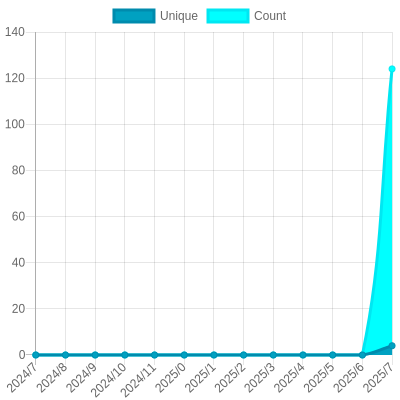
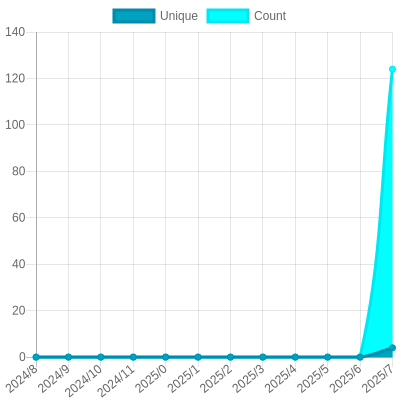
Update views

diff --git a/README.md b/README.md
@@ -26,18 +26,18 @@ The project created and maintained by [gayanvoice](https://github.com/gayanvoice
 			</a>
 		</td>
 		<td>
-			2024/8/29 1:19 AM UTC
+			2024/8/30 12:00 AM UTC
 		</td>
 		<td>
-			3
+			4
 		</td>
 		<td>
-			<img alt="Response time graph" src="https://github.com/sathya26d94/gitHub-profile-views/raw/master/graph/844962475/small/year.png" height="20"> 123
+			<img alt="Response time graph" src="https://github.com/sathya26d94/gitHub-profile-views/raw/master/graph/844962475/small/year.png" height="20"> 124
 		</td>
 	</tr>
 </table>
 
-<small><i>Last updated on 2024/8/31 6:21 PM UTC</i></small>
+<small><i>Last updated on 2024/9/1 1:38 AM UTC</i></small>
 
 ## ✂Copy and 📋 Paste
 ### Total Views Badge

diff --git a/readme/844962475/year.md b/readme/844962475/year.md
@@ -150,21 +150,10 @@
 			<code>0</code>
 		</td>
 	</tr>
-	<tr>
-		<td>
-			<code>2023/8/1</code>
-		</td>
-		<td>
-			<code>0</code>
-		</td>
-		<td>
-			<code>0</code>
-		</td>
-	</tr>
 </table>
 
 </details>
-<small><i>Last updated on 2024/8/31 6:21 PM UTC</i></small>
+<small><i>Last updated on 2024/9/1 1:38 AM UTC</i></small>
 
 ## ✂Copy and 📋 Paste
 ### SVG Badge
